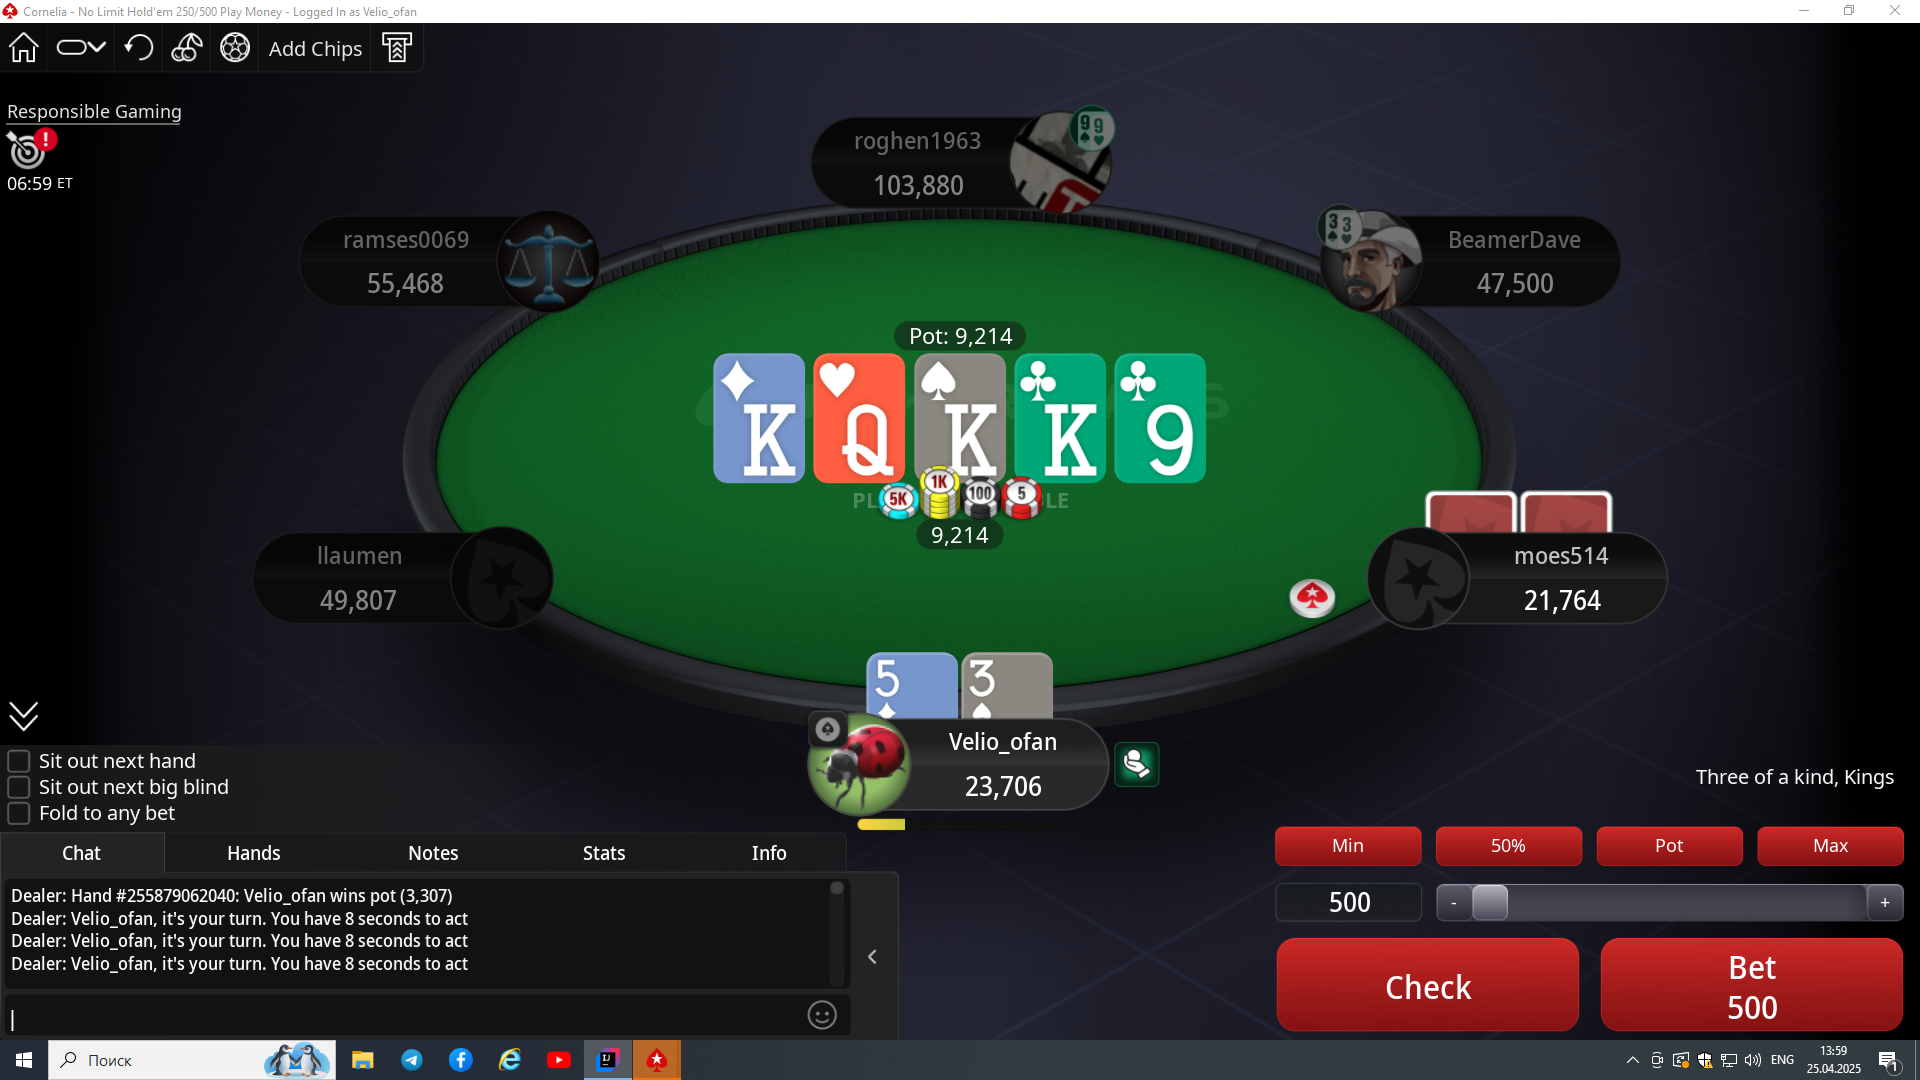
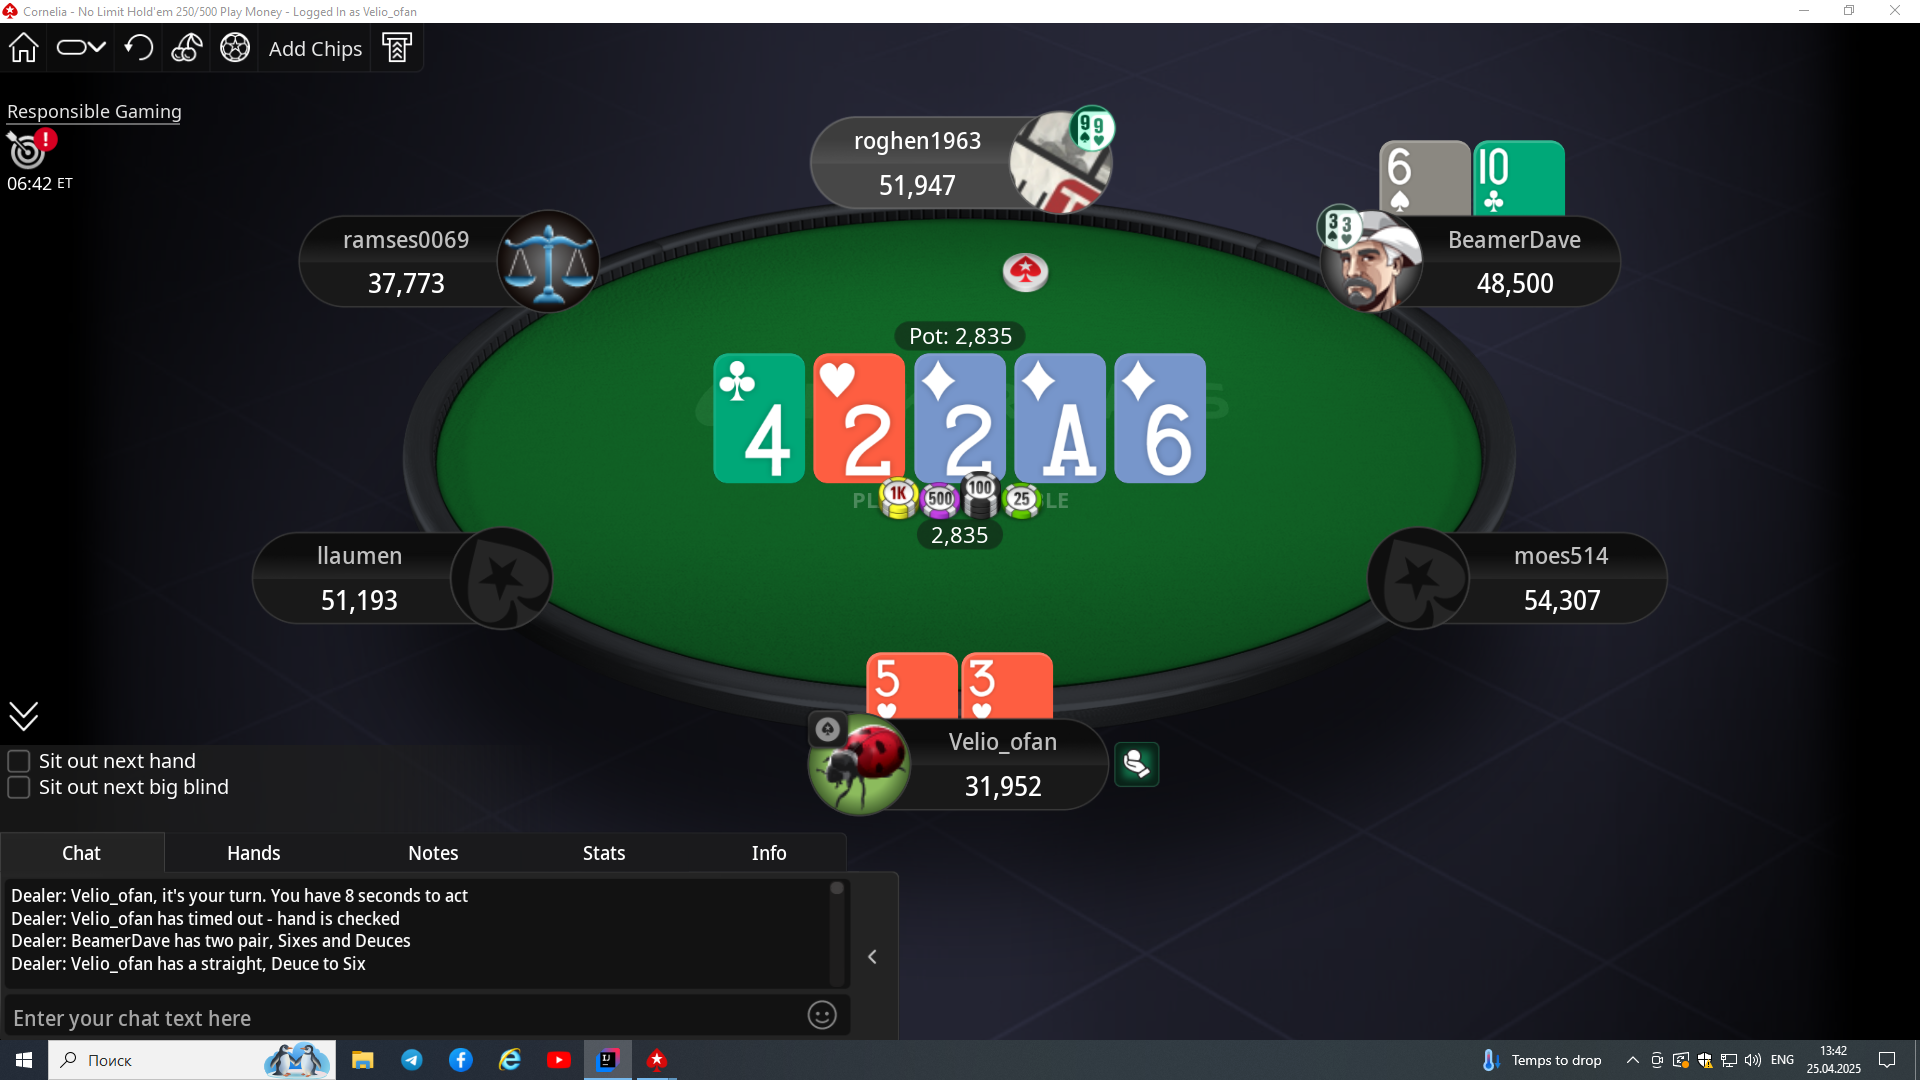
Update project

diff --git a/src/main/java/alex/valker91/main/Start.java b/src/main/java/alex/valker91/main/Start.java
@@ -27,7 +27,7 @@ public class Start {
     }
 
     public static void main(String[] args) {
-        File screenshotFile = new File("src/main/resources/screenshot/screenshot24.png");
+        File screenshotFile = new File("src/main/resources/screenshot/screenshot14.png");
         Mat img = Imgcodecs.imread(screenshotFile.getAbsolutePath());
         Imgcodecs.imwrite("img.png", img);
 
@@ -76,6 +76,26 @@ public class Start {
 //        Imgcodecs.imwrite("12345.png", card4SuiteCut);
         String recognizedCard4Suite = detectCardSuit(card4SuiteCut);
         System.out.println("Распознана карта 4 масть: " + recognizedCard4Suite);
+
+
+
+
+
+        Rect card5 = new Rect(1136, 405, 65, 66);
+        Mat card5Cut = allImage.submat(card5);
+//        Imgcodecs.imwrite("7_4.png", card5Cut);
+        String recognizedCard5 = matchCard(card5Cut);
+        System.out.println("Распознана карта 5: " + recognizedCard5);
+        Rect card5Suite = new Rect(1157, 362, 30, 31);
+        Mat card5SuiteCut = img.submat(card5Suite);
+//        Imgcodecs.imwrite("1234578.png", card5SuiteCut);
+        String recognizedCard5Suite = detectCardSuit(card5SuiteCut);
+        System.out.println("Распознана карта 5 масть: " + recognizedCard5Suite);
+
+
+
+
+
 
 
         Rect myCard1 = new Rect(870, 655, 40, 44);
@@ -265,7 +285,7 @@ public class Start {
                 bestMatch = entry.getKey();
             }
         }
-        return maxScore > 0.8 ? bestMatch : "Unknown (confidence: " + maxScore + ")";
+        return maxScore > 0.8 ? bestMatch : "Unknown";
     }
 
     private static void loadCardTemplates() {
